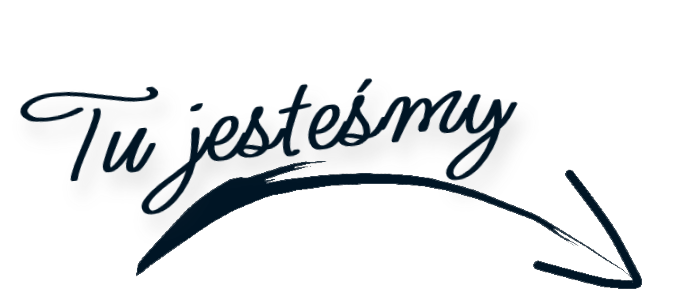
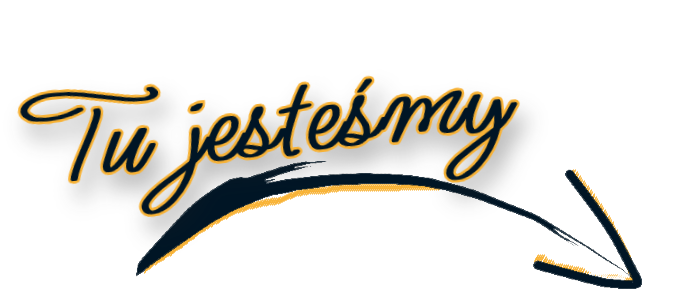
Update arrow image

diff --git a/src/components/sections/ContactSection.tsx b/src/components/sections/ContactSection.tsx
@@ -7,7 +7,7 @@ import ContentHeader from "../ContentHeader";
 import ContactForm from "../ContactForm";
 import { Overlay, Marker } from "pigeon-maps";
 import Image from "next/image";
-import arrow from "../../../public/img/sections/contact/arrow6.png";
+import arrow from "../../../public/img/sections/contact/arrow.png";
 
 const DynamicMap = dynamic(() => import("pigeon-maps").then((module) => module.Map) as any, {
   ssr: false, // Disable server-side rendering
